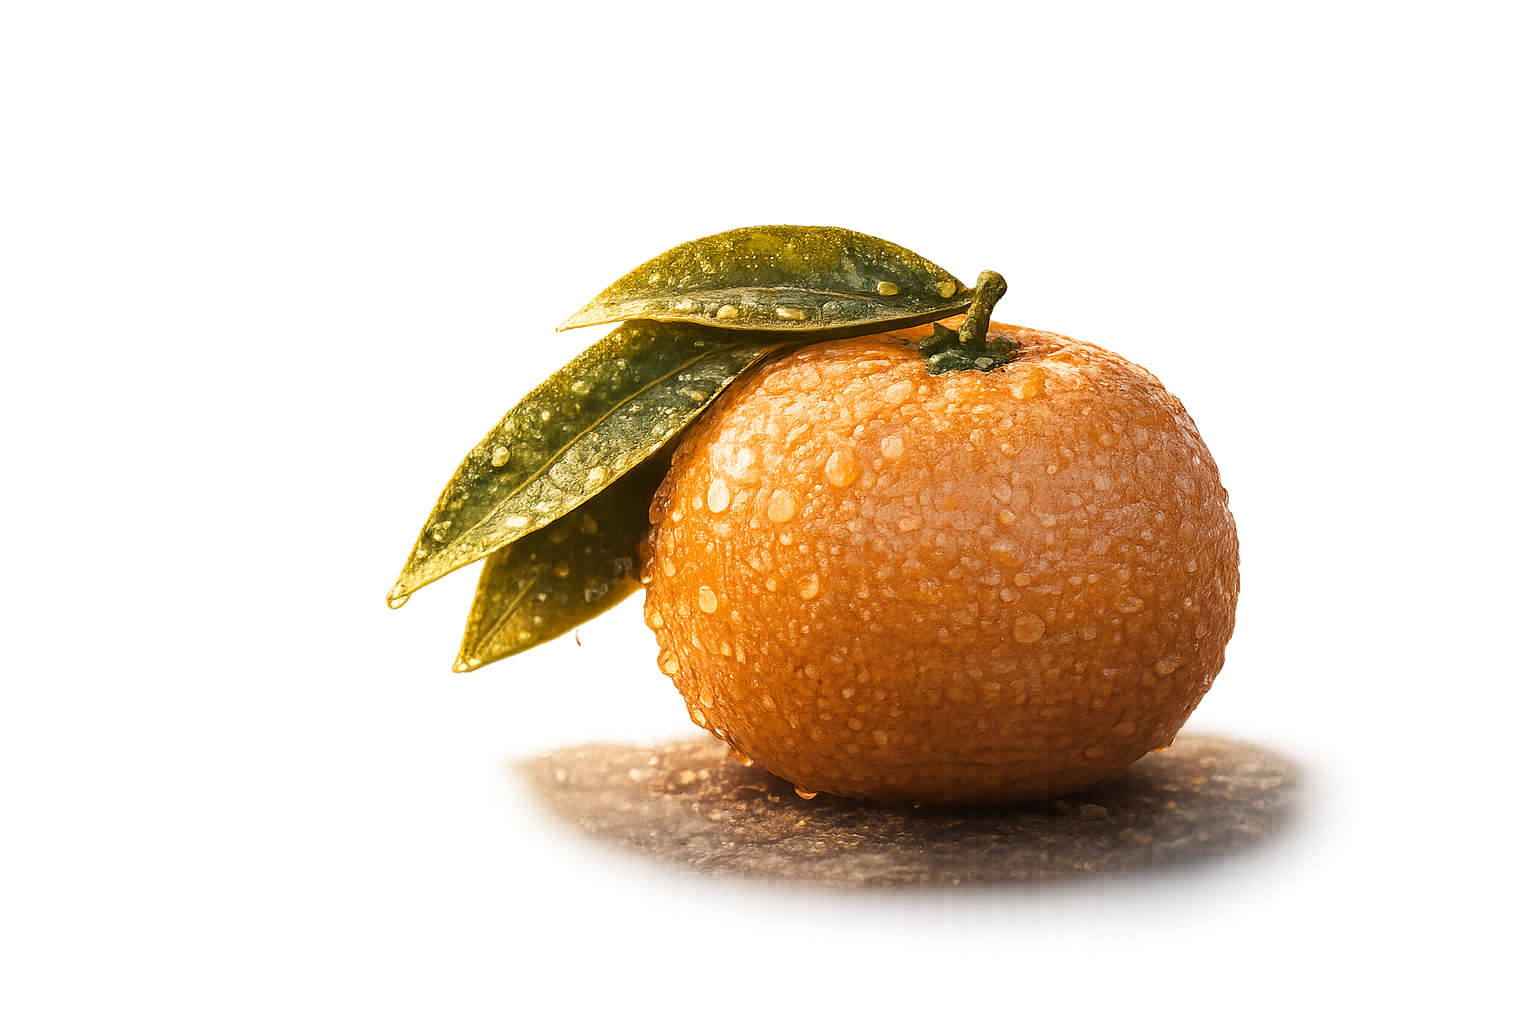
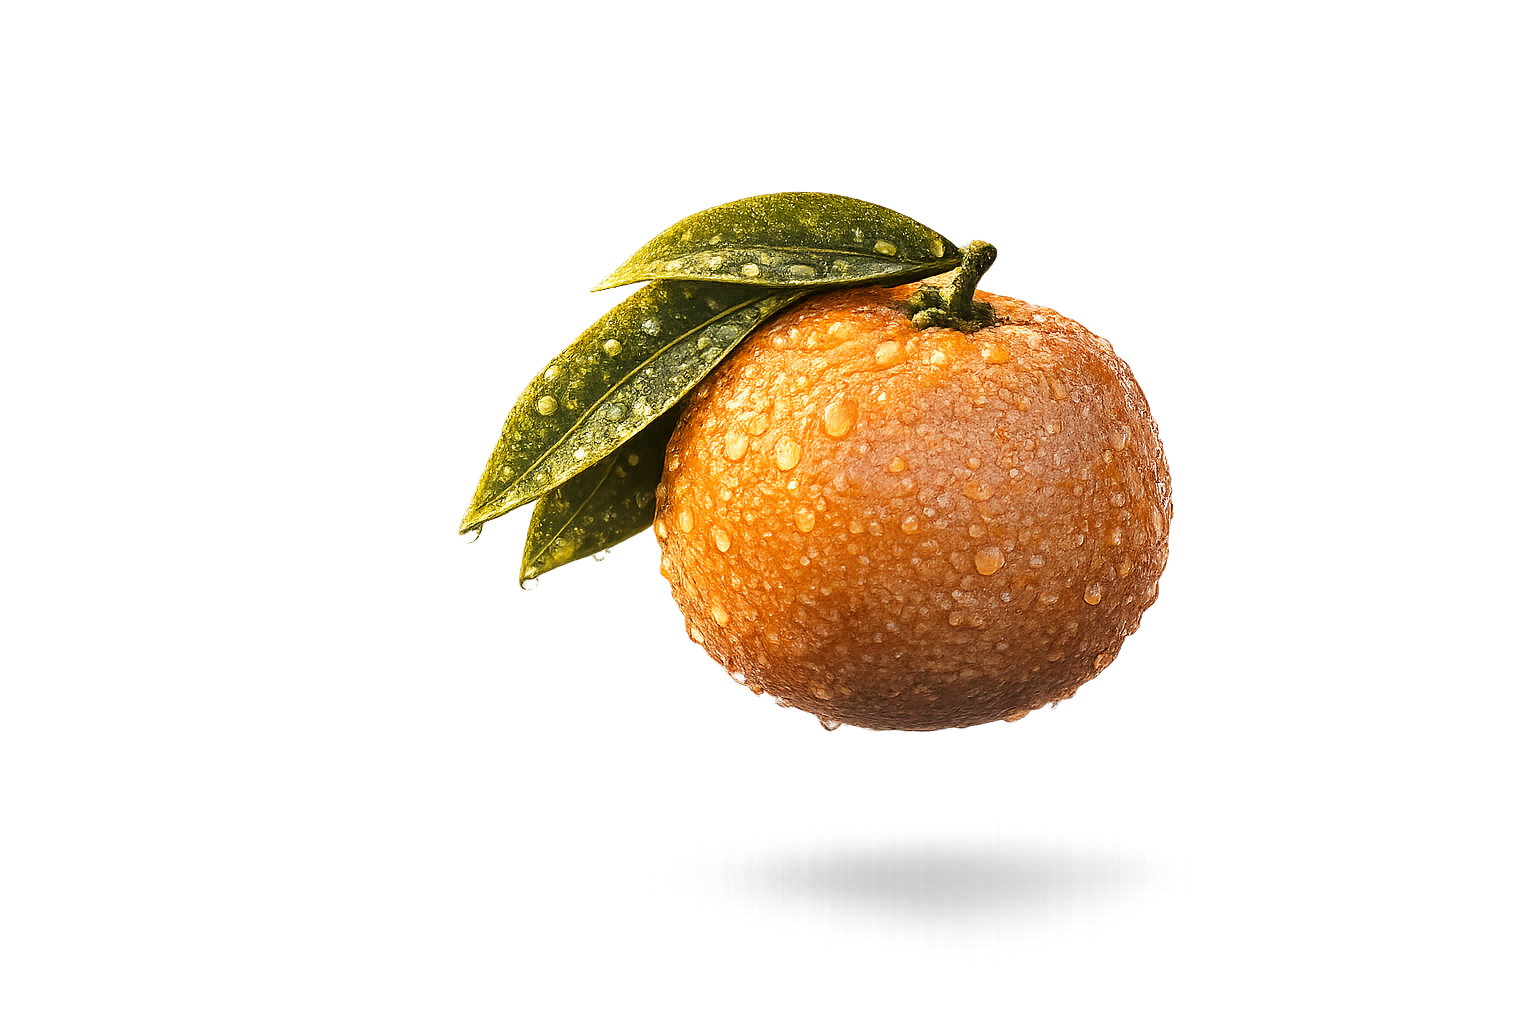
fix: tailwind and postcss configuration

Changed region(s): [[0.25, 0.1875, 0.875, 0.9062]]

diff --git a/app/AppleFloat.tsx b/app/AppleFloat.tsx
@@ -3,17 +3,22 @@
 import Image from "next/image";
 import { useEffect, useRef } from "react";
 
+/* ===========================
+   melaenvy / luxury LP 完全版
+=========================== */
+
 export default function AppleFloat() {
   const appleRef = useRef<HTMLDivElement>(null);
 
+  // 現在値（物体）
   const current = useRef({
     y: 0,
     rotateX: 0,
     rotateY: 0,
     z: 0,
-    float: 0,
   });
 
+  // 目標値（世界）
   const target = useRef({
     y: 0,
     rotateX: 0,
@@ -21,52 +26,81 @@ export default function AppleFloat() {
     z: 0,
   });
 
+  // スクロールの“慣性核”
+  const scrollSmooth = useRef(0);
+
   useEffect(() => {
     let rafId: number;
     let t = 0;
 
+    /* ===========================
+       イージング（非線形）
+    =========================== */
+    const easeOutCubic = (x: number) =>
+      1 - Math.pow(1 - x, 3);
+
+    /* ===========================
+       Scroll → 世界値
+    =========================== */
     const onScroll = () => {
       const scrollY = window.scrollY;
       const heroRange = window.innerHeight * 0.9;
-      const progress = Math.min(scrollY / heroRange, 1);
 
-      // melaenvy 的パラメータ（抑制・品）
-      target.current.y = progress * 40;
-      target.current.rotateY = progress * 320;
-      target.current.rotateX = progress * 35; // ★ 潰れ防止
-      target.current.z = progress * 180;
+      const rawProgress = Math.min(scrollY / heroRange, 1);
+
+      // ★ スクロールを一度“溜める”
+      scrollSmooth.current +=
+        (rawProgress - scrollSmooth.current) * 0.04;
+
+      const eased = easeOutCubic(scrollSmooth.current);
+
+      // 品のある最大量（過剰禁止）
+      target.current.y = eased * 42;
+      target.current.z = eased * 160;
+      target.current.rotateY = eased * 260;
+      target.current.rotateX = eased * 22;
     };
 
+    /* ===========================
+       Animation Loop
+    =========================== */
     const animate = () => {
       t += 0.016;
 
-      // 微自律浮遊（神秘感の核）
-      const floatY = Math.sin(t * 1.2) * 6;
-      const floatRot = Math.sin(t * 0.8) * 3;
+      /* --- 微細自律浮遊（背景ノイズ） --- */
+      const floatY = Math.sin(t * 0.7) * 3;
+      const floatZ = Math.sin(t * 0.5) * 2;
+      const floatRot = Math.sin(t * 0.6) * 1.6;
 
-      // 慣性補間
-      current.current.y += (target.current.y - current.current.y) * 0.06;
+      /* --- 慣性補間（重さ） --- */
+      const inertia = 0.045;
+
+      current.current.y +=
+        (target.current.y - current.current.y) * inertia;
+      current.current.z +=
+        (target.current.z - current.current.z) * inertia;
       current.current.rotateY +=
-        (target.current.rotateY - current.current.rotateY) * 0.06;
+        (target.current.rotateY - current.current.rotateY) * inertia;
       current.current.rotateX +=
-        (target.current.rotateX - current.current.rotateX) * 0.06;
-      current.current.z += (target.current.z - current.current.z) * 0.06;
+        (target.current.rotateX - current.current.rotateX) * inertia;
 
-      // Z連動演出
-      const scale = 1 + current.current.z / 1400;
-      const blur = Math.min(current.current.z / 160, 2.5);
+      /* --- Z連動の視覚補正 --- */
+      const scale = 1 + current.current.z / 1600;
+      const blur = Math.min(current.current.z / 220, 1.6);
 
       if (appleRef.current) {
         appleRef.current.style.transform = `
           translate(-50%, -50%)
           translateY(${current.current.y + floatY}px)
-          translateZ(${current.current.z}px)
+          translateZ(${current.current.z + floatZ}px)
           rotateX(${current.current.rotateX + floatRot}deg)
           rotateY(${current.current.rotateY + floatRot}deg)
           scale(${scale})
         `;
 
-        appleRef.current.style.filter = `blur(${blur}px)`;
+        appleRef.current.style.filter = `
+          blur(${blur}px)
+        `;
       }
 
       rafId = requestAnimationFrame(animate);
@@ -82,22 +116,27 @@ export default function AppleFloat() {
     };
   }, []);
 
+  /* ===========================
+     View
+  =========================== */
   return (
     <div
       className="
         pointer-events-none
         absolute inset-0
         z-[9]
-        perspective-[1600px]
+        perspective-[1800px]
       "
     >
       <div
         ref={appleRef}
         className="
-          absolute top-1/2 left-1/2
+          absolute
+          top-1/2
+          left-[62%]   /* ★ 修正：中央 → 右寄せ（文字・CTA保護） */
           transform-gpu
           will-change-transform
-          drop-shadow-[0_40px_70px_rgba(120,70,20,0.35)]
+          drop-shadow-[0_40px_80px_rgba(120,70,20,0.35)]
         "
       >
         <Image
@@ -106,7 +145,10 @@ export default function AppleFloat() {
           width={520}
           height={520}
           priority
-          className="brightness-[0.98] saturate-[0.95]"
+          className="
+            brightness-[0.98]
+            saturate-[0.96]
+          "
         />
       </div>
     </div>
